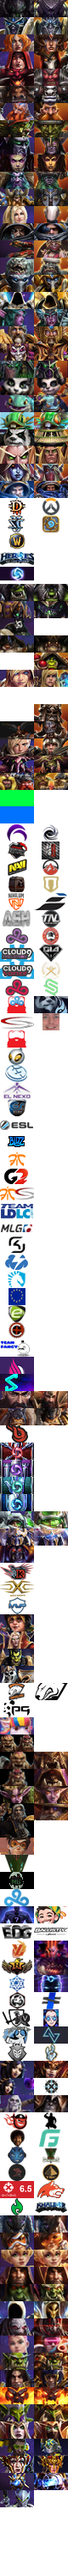
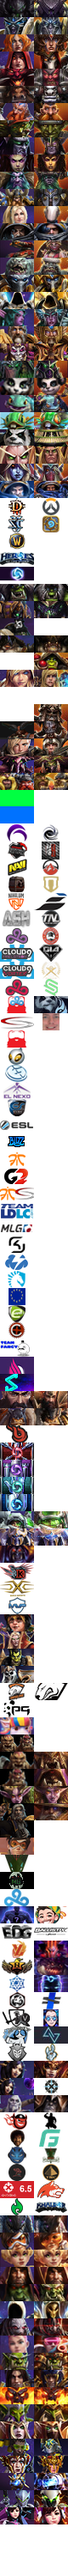
Added DVa and Genji flair

Changed region(s): [[0.0, 0.961, 1.0, 0.992]]

diff --git a/user_flair/hero_flair.scss b/user_flair/hero_flair.scss
@@ -631,3 +631,15 @@
 .flair-genji::before {
   background-position: 0 -2900px
 }
+
+.flair-master-genji::before {
+  background-position: 40px -2900px
+}
+
+.flair-dva::before {
+  background-position: 0 -2920px
+}
+
+.flair-master-dva::before {
+  background-position: 40px -2920px
+}
